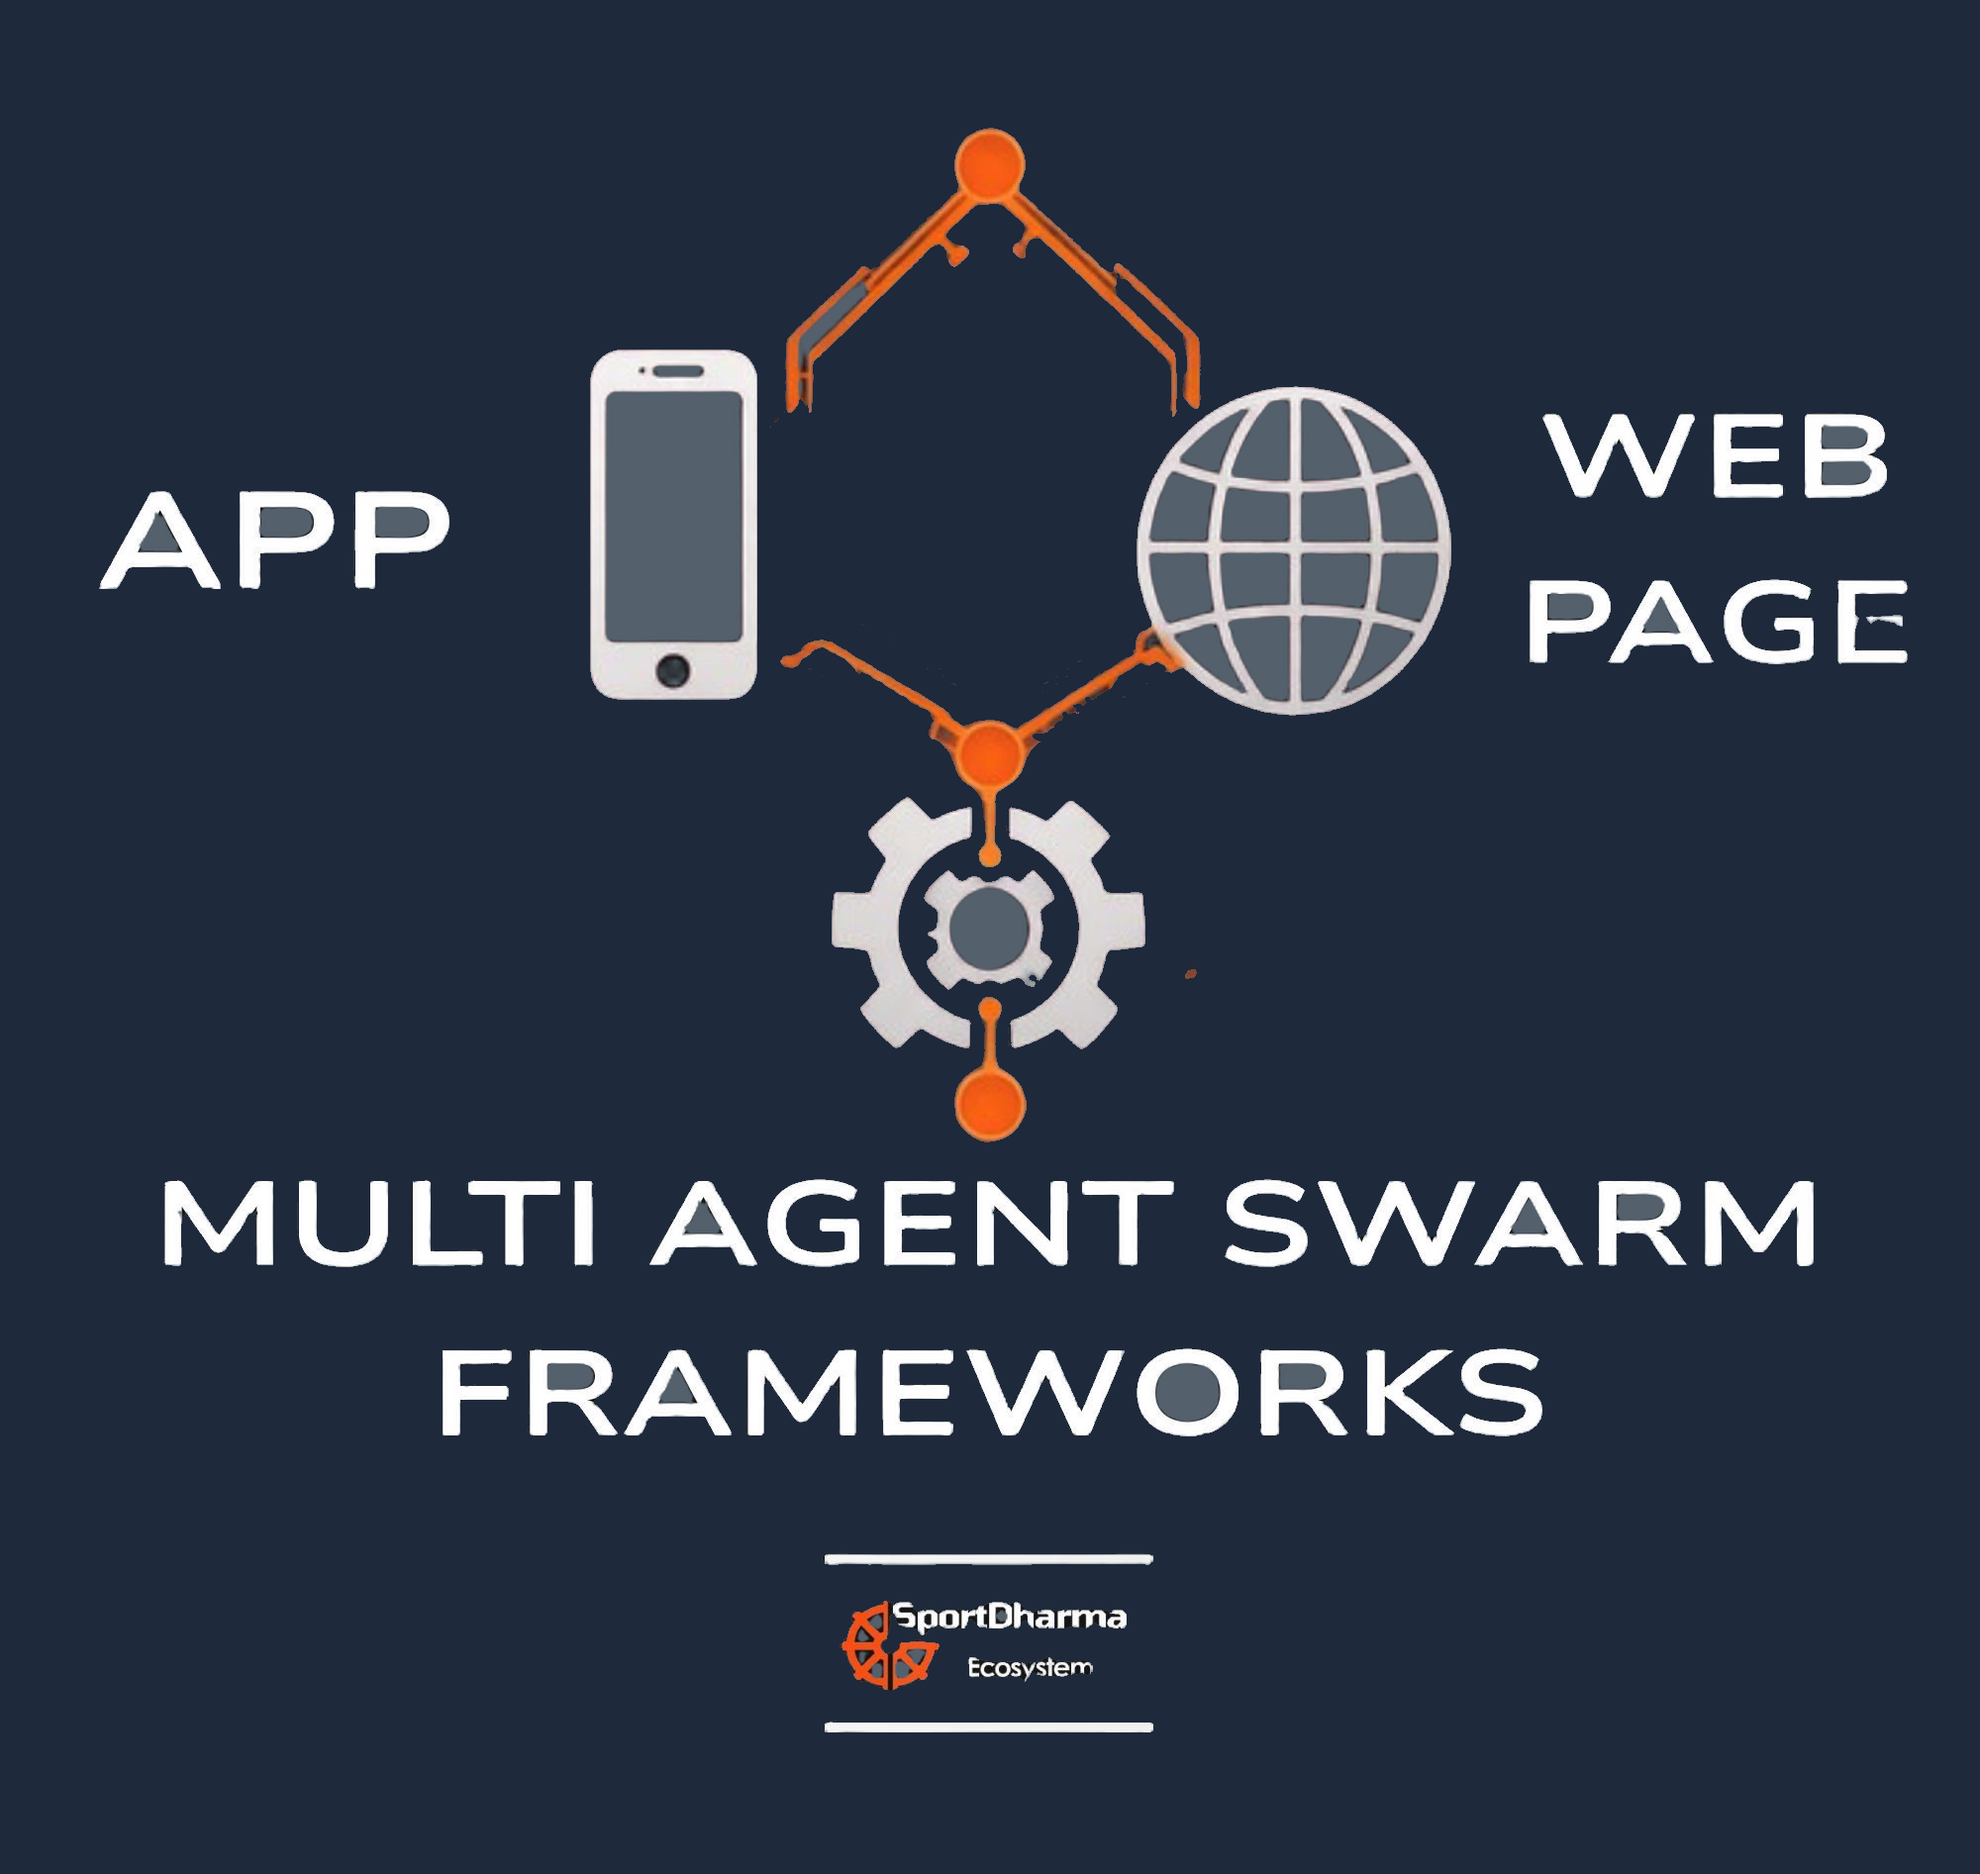
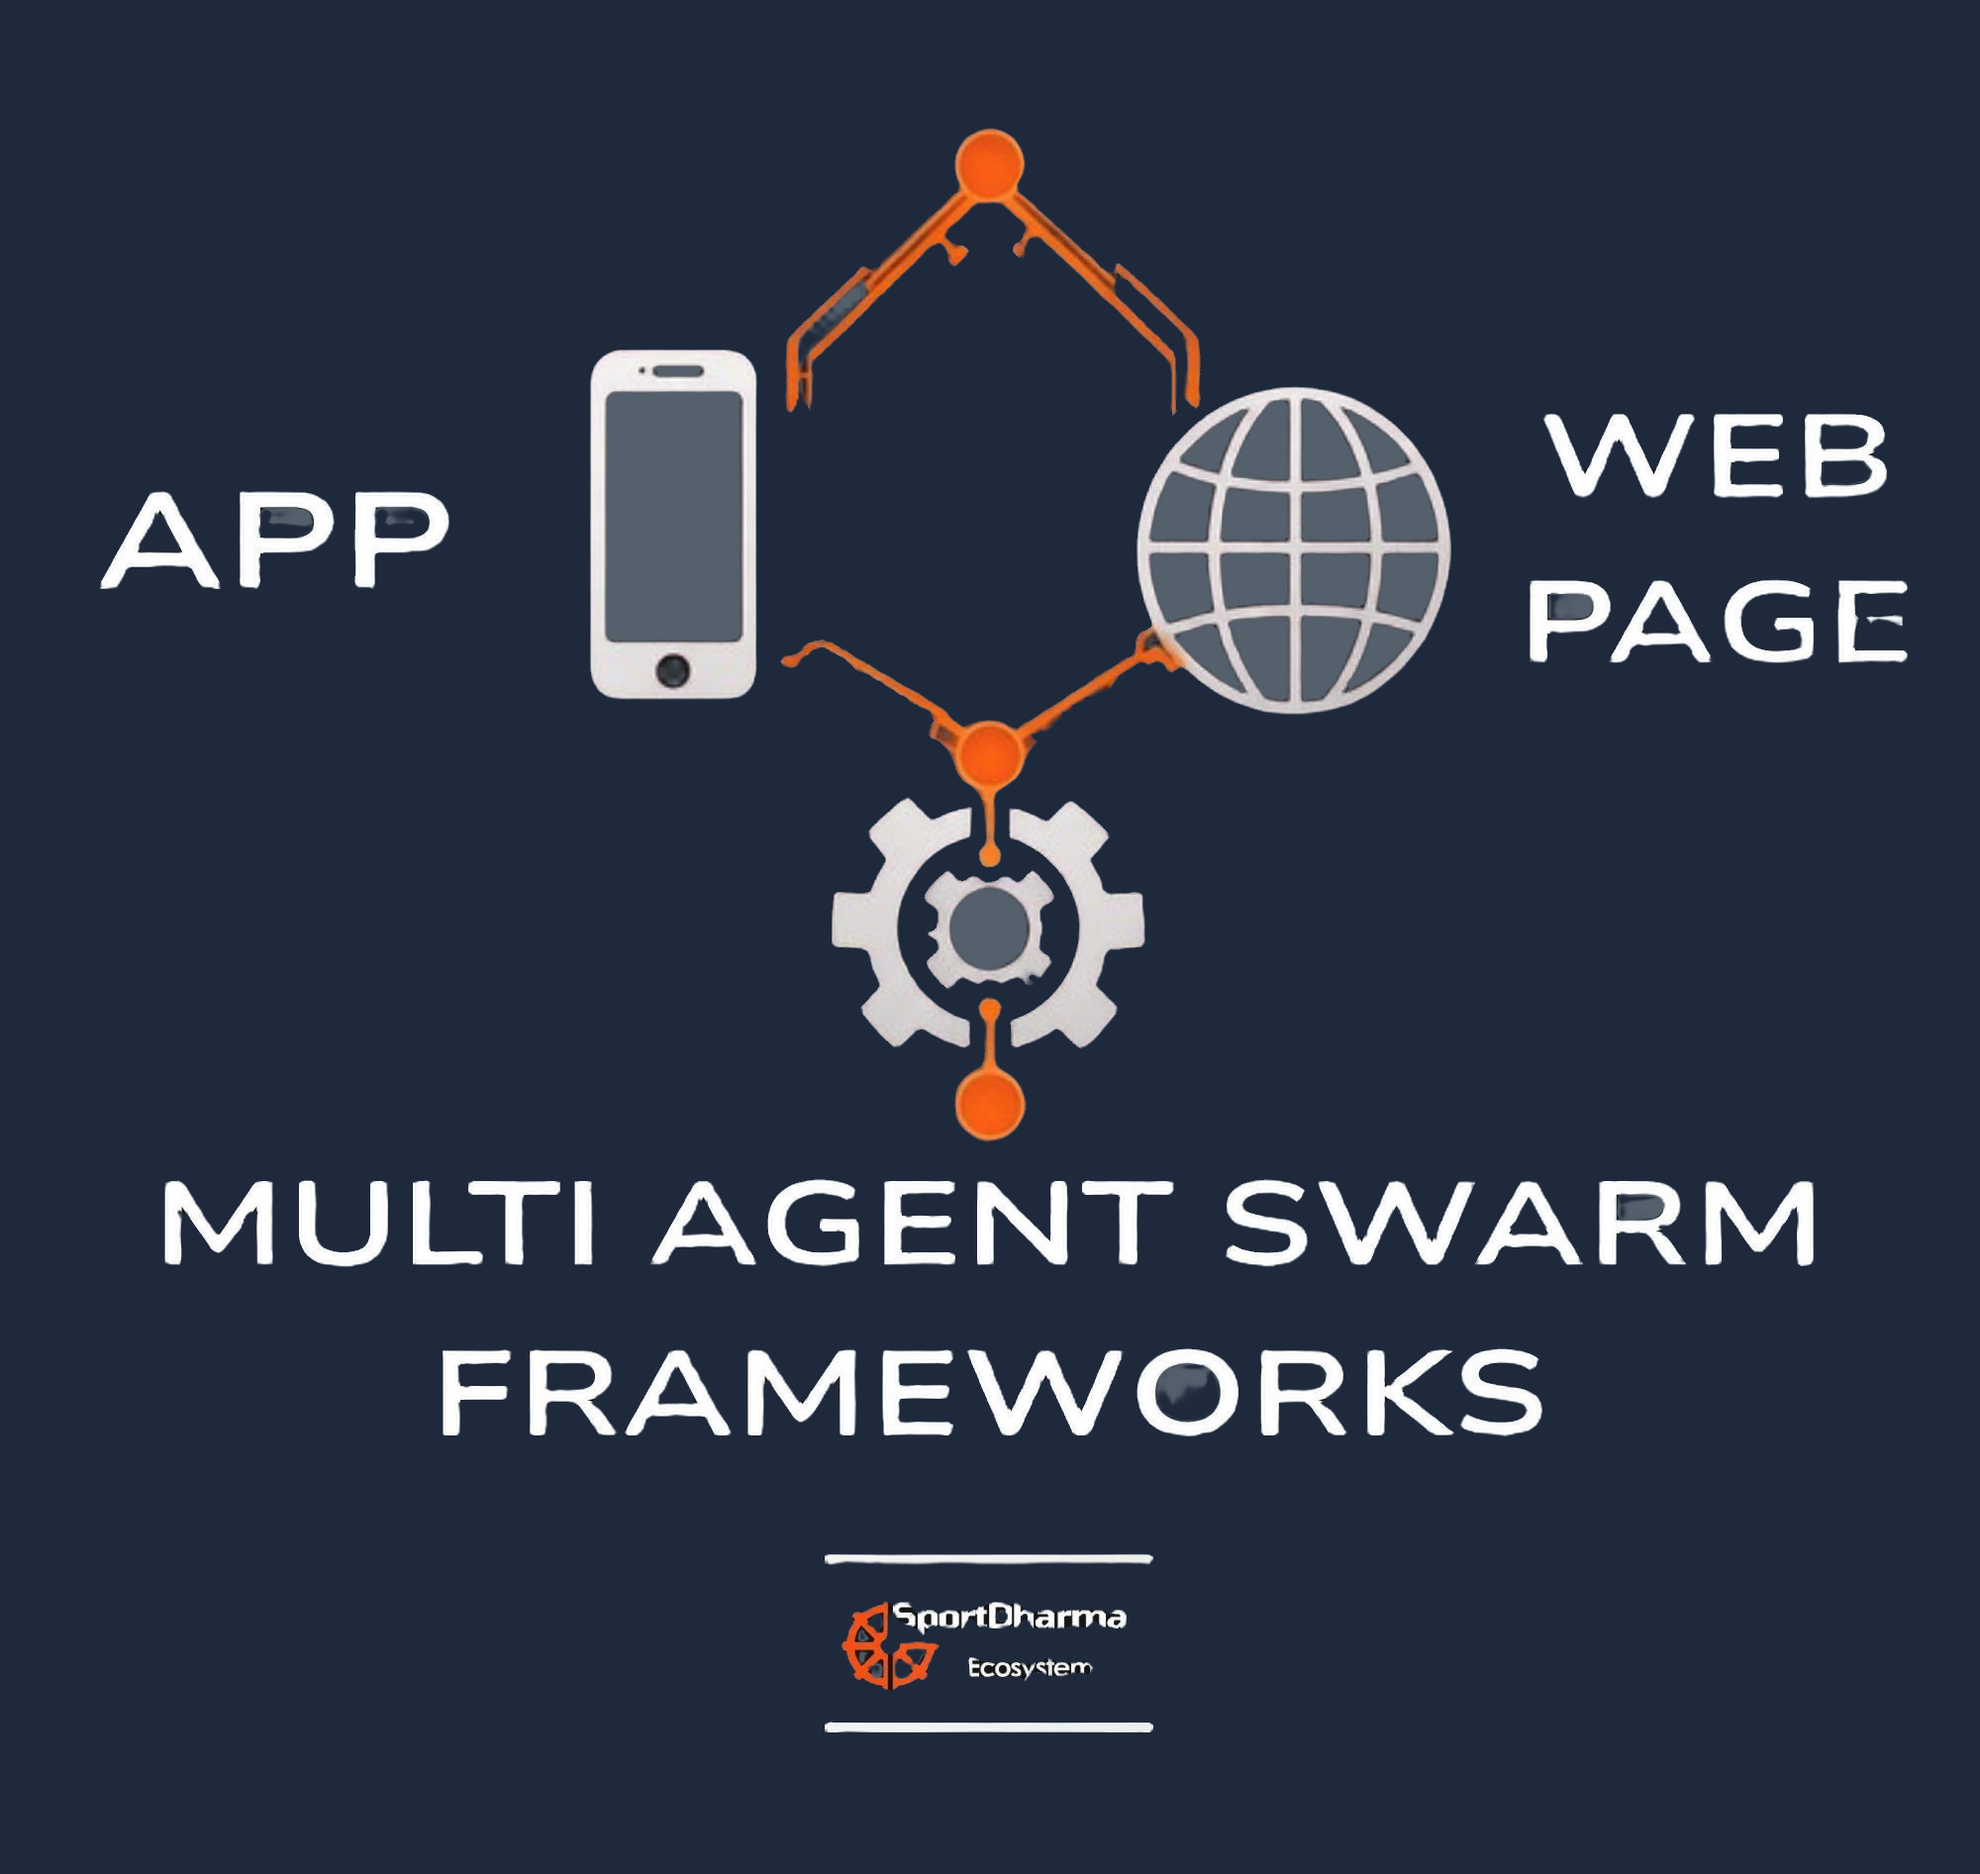
assets: fondo del diagrama unificado con la pagina (slate-800)

diff --git a/dist/sw.js b/dist/sw.js
@@ -1,1 +1,1 @@
-if(!self.define){let e,i={};const a=(a,r)=>(a=new URL(a+".js",r).href,i[a]||new Promise(i=>{if("document"in self){const e=document.createElement("script");e.src=a,e.onload=i,document.head.appendChild(e)}else e=a,importScripts(a),i()}).then(()=>{let e=i[a];if(!e)throw new Error(`Module ${a} didn’t register its module`);return e}));self.define=(r,o)=>{const d=e||("document"in self?document.currentScript.src:"")||location.href;if(i[d])return;let s={};const n=e=>a(e,d),c={module:{uri:d},exports:s,require:n};i[d]=Promise.all(r.map(e=>c[e]||n(e))).then(e=>(o(...e),s))}}define(["./workbox-6cc66fb0"],function(e){"use strict";importScripts("/push-handler.js"),e.setCacheNameDetails({prefix:"sportdharma-v18"}),self.skipWaiting(),e.clientsClaim(),e.precacheAndRoute([{url:"theme.js",revision:"5746a8b8469f123285802cc69f4492c7"},{url:"registerSW.js",revision:"1872c500de691dce40960bb85481de07"},{url:"masf-captura-v2.png",revision:"e31208aee0938807abd4a9a29704bfb3"},{url:"manifiesto-tayikistan.jpg",revision:"14dbd094f3e3ee2930173765463bf5dc"},{url:"manifiesto-ruta.jpg",revision:"1e0cb2ce3c4a85afa251211207210184"},{url:"manifiesto-pamir.jpg",revision:"3ecdd6660fe4f66815e89b162250e256"},{url:"manifiesto-laos.jpg",revision:"2bdd99633ba5d7ef1a8588963bc5df6d"},{url:"manifiesto-grupo.jpg",revision:"97e6e4ec0ced1d01c066fbbb4f189e8d"},{url:"manifiesto-camino.jpg",revision:"49f4826f35aedd99a84a0292ce38dcdd"},{url:"logo.png",revision:"80d1d850de48463874706106c0922559"},{url:"logo.jpg",revision:"4ea7955768927e380574febcbdfc282e"},{url:"logo-social2.jpg",revision:"80d1d850de48463874706106c0922559"},{url:"logo-social.jpg",revision:"4ea7955768927e380574febcbdfc282e"},{url:"logo-header.png",revision:"857bfc9ce05789a529e422a86fc09227"},{url:"hero-bike.jpg",revision:"203500fc892ec1e16f3240b12dbba2e3"},{url:"fundador-2.jpg",revision:"d607661ed130a0c3258071e23c66af79"},{url:"fundador-1.jpg",revision:"2cefe75389c43a05785840dac7762a7e"},{url:"ecosistema-diagram.jpg",revision:"9983ec7a4dcf2ea9bfe69e184c5375a4"},{url:"ecosistema-diagram-transparente2.jpg",revision:"69050573394ecf08e76a97b91dd55cad"},{url:"ecosistema-diagram-transparente.png",revision:"951f04ec16bde8448d59e82bf2832396"},{url:"ecosistema-diagram-transparente.bak.png",revision:"0c50fbca7576e8962ff8b4b2457cbc24"},{url:"ecosistema-diagram-darkbg.png",revision:"b00049dc659c994d5e36c27f494537cb"},{url:"_astro/index.D7bNxHVx.css",revision:null},{url:"images/templo-blanco.jpg",revision:"3e782c87a17fc525ae07ae4a55640fa4"},{url:"images/fundador/suenos-a-pedal.jpg",revision:"65270b79b1ddbb94dd9606c9e3f3f151"},{url:"images/fundador/foto-7.jpg",revision:"d0aeca09a39e475a6b55ddd455afa5e1"},{url:"images/fundador/foto-5.jpg",revision:"6b25151b1327ebf22a5d02703912b28e"},{url:"images/fundador/foto-4.jpg",revision:"2fd2d4e5ab890c390cee1ca5425b5c7d"},{url:"images/fundador/foto-3.jpg",revision:"0f200b140e477209a8bf8320f2e68062"},{url:"images/fundador/foto-2.jpg",revision:"21bba06d48ac119f73f5bbfc961d875d"},{url:"images/fundador/foto-1.jpg",revision:"79a2c45fc9a653de4974dfa434d26c96"},{url:"images/fundador/documental-un-ano-en-bicicleta.jpg",revision:"c11bfd7a49e37696a38338b4fc7a5a14"},{url:"logo.jpg",revision:"4ea7955768927e380574febcbdfc282e"},{url:"manifest.webmanifest",revision:"2402e458fd1416fca586003f61a3e59b"}],{}),e.cleanupOutdatedCaches(),e.registerRoute(new e.NavigationRoute(e.createHandlerBoundToURL("index.html"),{denylist:[/^\/api/]})),e.registerRoute(({url:e})=>e.hostname.endsWith("workers.dev"),new e.NetworkOnly,"GET")});
+if(!self.define){let e,i={};const a=(a,r)=>(a=new URL(a+".js",r).href,i[a]||new Promise(i=>{if("document"in self){const e=document.createElement("script");e.src=a,e.onload=i,document.head.appendChild(e)}else e=a,importScripts(a),i()}).then(()=>{let e=i[a];if(!e)throw new Error(`Module ${a} didn’t register its module`);return e}));self.define=(r,o)=>{const d=e||("document"in self?document.currentScript.src:"")||location.href;if(i[d])return;let s={};const n=e=>a(e,d),c={module:{uri:d},exports:s,require:n};i[d]=Promise.all(r.map(e=>c[e]||n(e))).then(e=>(o(...e),s))}}define(["./workbox-6cc66fb0"],function(e){"use strict";importScripts("/push-handler.js"),e.setCacheNameDetails({prefix:"sportdharma-v18"}),self.skipWaiting(),e.clientsClaim(),e.precacheAndRoute([{url:"theme.js",revision:"5746a8b8469f123285802cc69f4492c7"},{url:"registerSW.js",revision:"1872c500de691dce40960bb85481de07"},{url:"masf-captura-v2.png",revision:"e31208aee0938807abd4a9a29704bfb3"},{url:"manifiesto-tayikistan.jpg",revision:"14dbd094f3e3ee2930173765463bf5dc"},{url:"manifiesto-ruta.jpg",revision:"1e0cb2ce3c4a85afa251211207210184"},{url:"manifiesto-pamir.jpg",revision:"3ecdd6660fe4f66815e89b162250e256"},{url:"manifiesto-laos.jpg",revision:"2bdd99633ba5d7ef1a8588963bc5df6d"},{url:"manifiesto-grupo.jpg",revision:"97e6e4ec0ced1d01c066fbbb4f189e8d"},{url:"manifiesto-camino.jpg",revision:"49f4826f35aedd99a84a0292ce38dcdd"},{url:"logo.png",revision:"80d1d850de48463874706106c0922559"},{url:"logo.jpg",revision:"4ea7955768927e380574febcbdfc282e"},{url:"logo-social2.jpg",revision:"80d1d850de48463874706106c0922559"},{url:"logo-social.jpg",revision:"4ea7955768927e380574febcbdfc282e"},{url:"logo-header.png",revision:"857bfc9ce05789a529e422a86fc09227"},{url:"hero-bike.jpg",revision:"203500fc892ec1e16f3240b12dbba2e3"},{url:"fundador-2.jpg",revision:"d607661ed130a0c3258071e23c66af79"},{url:"fundador-1.jpg",revision:"2cefe75389c43a05785840dac7762a7e"},{url:"ecosistema-diagram.jpg",revision:"9983ec7a4dcf2ea9bfe69e184c5375a4"},{url:"ecosistema-diagram-transparente3.png",revision:"951f04ec16bde8448d59e82bf2832396"},{url:"ecosistema-diagram-transparente2.jpg",revision:"69050573394ecf08e76a97b91dd55cad"},{url:"ecosistema-diagram-transparente.png",revision:"67084321651ee0f29a279aa98f511199"},{url:"ecosistema-diagram-transparente.bak.png",revision:"0c50fbca7576e8962ff8b4b2457cbc24"},{url:"ecosistema-diagram-darkbg.png",revision:"b00049dc659c994d5e36c27f494537cb"},{url:"_astro/index.D7bNxHVx.css",revision:null},{url:"images/templo-blanco.jpg",revision:"3e782c87a17fc525ae07ae4a55640fa4"},{url:"images/fundador/suenos-a-pedal.jpg",revision:"65270b79b1ddbb94dd9606c9e3f3f151"},{url:"images/fundador/foto-7.jpg",revision:"d0aeca09a39e475a6b55ddd455afa5e1"},{url:"images/fundador/foto-5.jpg",revision:"6b25151b1327ebf22a5d02703912b28e"},{url:"images/fundador/foto-4.jpg",revision:"2fd2d4e5ab890c390cee1ca5425b5c7d"},{url:"images/fundador/foto-3.jpg",revision:"0f200b140e477209a8bf8320f2e68062"},{url:"images/fundador/foto-2.jpg",revision:"21bba06d48ac119f73f5bbfc961d875d"},{url:"images/fundador/foto-1.jpg",revision:"79a2c45fc9a653de4974dfa434d26c96"},{url:"images/fundador/documental-un-ano-en-bicicleta.jpg",revision:"c11bfd7a49e37696a38338b4fc7a5a14"},{url:"logo.jpg",revision:"4ea7955768927e380574febcbdfc282e"},{url:"manifest.webmanifest",revision:"2402e458fd1416fca586003f61a3e59b"}],{}),e.cleanupOutdatedCaches(),e.registerRoute(new e.NavigationRoute(e.createHandlerBoundToURL("index.html"),{denylist:[/^\/api/]})),e.registerRoute(({url:e})=>e.hostname.endsWith("workers.dev"),new e.NetworkOnly,"GET")});
